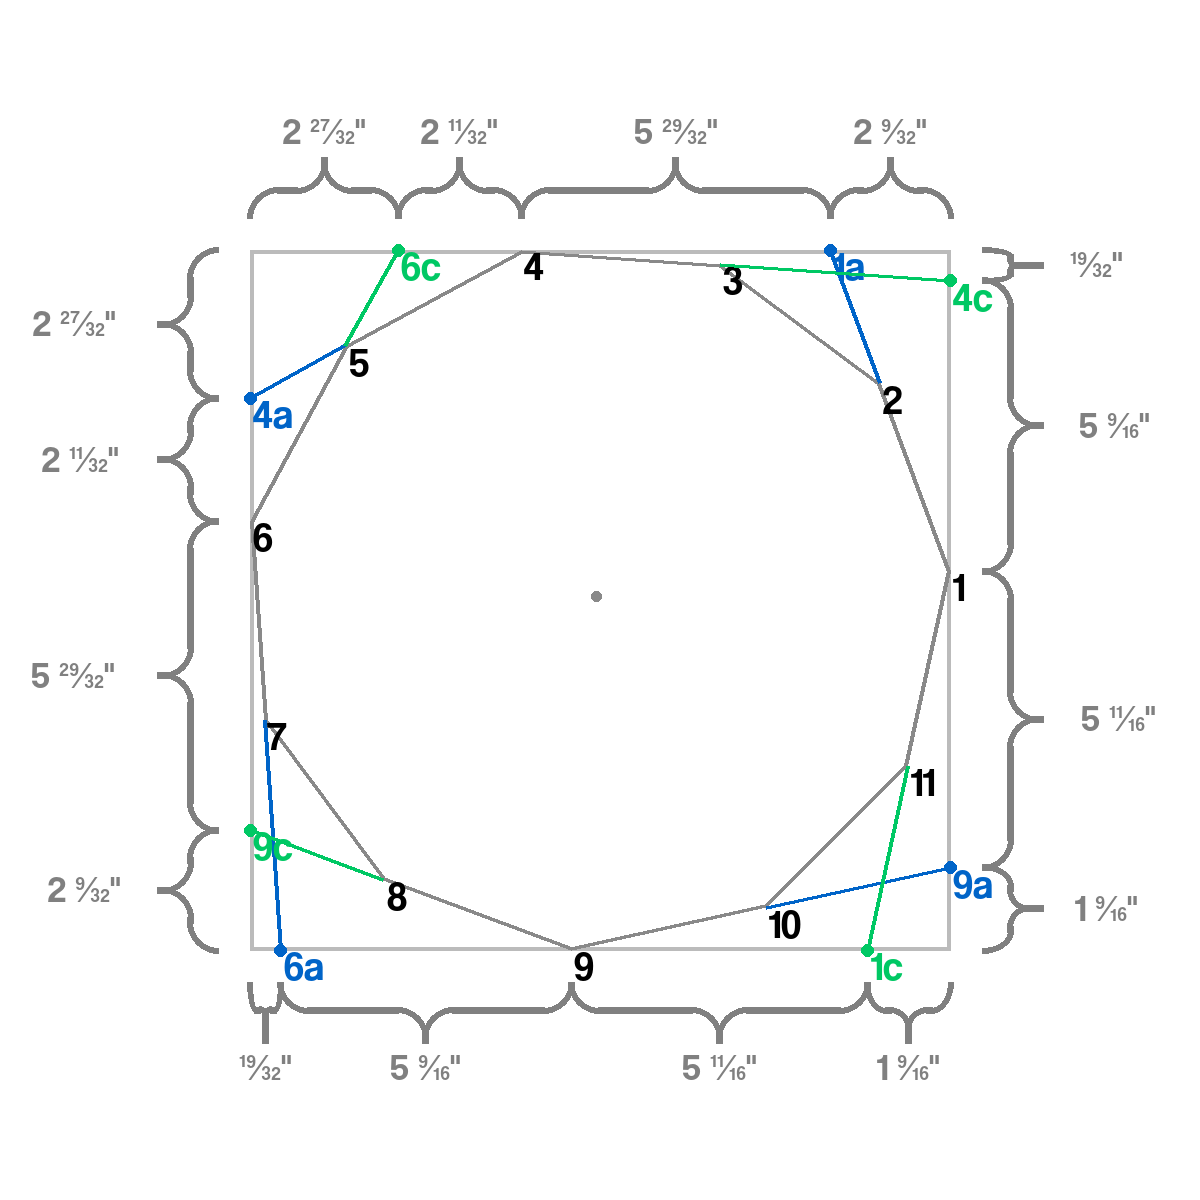
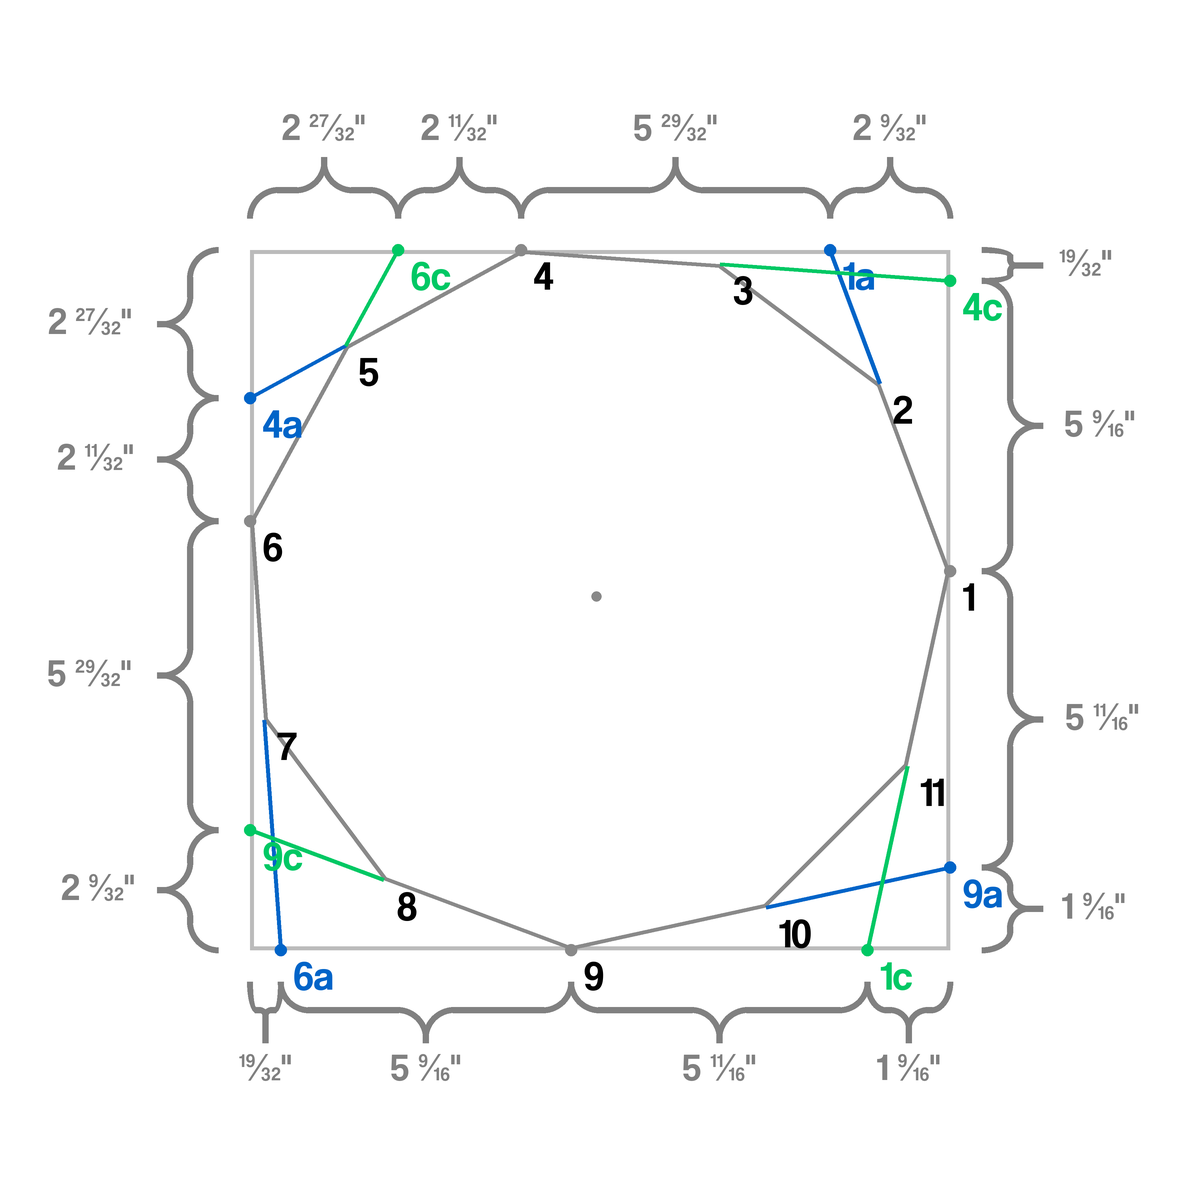
Add files via upload

diff --git a/maxpolygon/diagram/_basic_diagram.py b/maxpolygon/diagram/_basic_diagram.py
@@ -14,18 +14,19 @@ from pathlib import Path
 from PIL import Image, ImageDraw, ImageFont
 
 # Image output settings.
-IMG_SIZE = 1200  # Output image size (pixels)
-SQUARE_PADDING = 250  # Padding around the square (pixels)
+ANTIALIAS = 3  # Antialias factor.
+IMG_SIZE = 1200 * ANTIALIAS  # Output image size (pixels)
+SQUARE_PADDING = 250 * ANTIALIAS  # Padding around the square (pixels)
 
 # Vertex render settings.
-CENTER_VERT_RADIUS = 5
-HINT_VERT_RADIUS = 6
+CENTER_VERT_RADIUS = 5 * ANTIALIAS
+HINT_VERT_RADIUS = 6 * ANTIALIAS
 
 # Label settings.
 LABEL_POLY_VERTS = True
 LABEL_HINT_POINTS = True
-LABEL_OFFSET_X = 3
-LABEL_OFFSET_Y = -10
+LABEL_OFFSET_X = 13 * ANTIALIAS
+LABEL_OFFSET_Y = 0 * ANTIALIAS
 LETTERS = "ac"  # a = anticlockwise, c = clockwise
 CLOCKWISE_COLOR = (0, 200, 100)  # label color for clockwise.
 ANTICLOCKWISE_COLOR = (0, 100, 200)  # label color for anticlockwise.
@@ -54,7 +55,7 @@ def create_basic_diagram(
     # 1) Load the fonts.
     current_file = Path(__file__).resolve()
     font_path = current_file.parent.parent / "res" / "font.otf"
-    big_font = ImageFont.truetype(font_path, size=41)
+    big_font = ImageFont.truetype(font_path, size=41 * ANTIALIAS)
 
     # 2) Convert the units into pixels.
     def as_px(val, invert: bool = False):
@@ -68,12 +69,11 @@ def create_basic_diagram(
         for hints in indexed_hint_points
     ]
 
-    # 3) Create the image and draws the shape.
-    # 3a) Create the image and drawing object.
+    # 3) Create the image and drawing object.
     img = Image.new("RGB", (IMG_SIZE, IMG_SIZE), "white")
     draw = ImageDraw.Draw(img)
 
-    # 3b) Draw the square border.
+    # 4) Draw the square border.
     draw.rectangle(
         [
             SQUARE_PADDING,
@@ -82,27 +82,42 @@ def create_basic_diagram(
             IMG_SIZE - SQUARE_PADDING,
         ],
         outline=SQUARE_BORDER_COLOR,
-        width=4,
+        width=4 * ANTIALIAS,
     )
 
-    # 3c) Draw the polygon lines.
-    draw.polygon(px_coords, outline=LINE_COLOR, width=4)
+    # 5) Draw the polygon and vertices.
+    # 5a) Draw the polygon lines.
+    draw.polygon(px_coords, outline=LINE_COLOR, width=4 * ANTIALIAS)
     for i, (x, y) in enumerate(coords):
         p_x, p_y = px_coords[i]
 
-    # 3d) Draw the center.
+    # 5b) Draw the polygon vertices that are on an edge.
+    indices_on_edge = [
+        i
+        for i, (x, y) in enumerate(px_coords)
+        if not all(
+            SQUARE_PADDING + 0.001 < d < IMG_SIZE - SQUARE_PADDING - 0.001
+            for d in (x, y)
+        )
+    ]
+    for i in indices_on_edge:
+        cx, cy = px_coords[i]
+        r = HINT_VERT_RADIUS
+        draw.ellipse((cx - r, cy - r, cx + r, cy + r), fill=LINE_COLOR)
+
+    # 5c) Draw the center.
     cx, cy = px_center
     r = CENTER_VERT_RADIUS
     draw.ellipse((cx - r, cy - r, cx + r, cy + r), fill=LINE_COLOR)
 
-    # 4) Draw the numbering labels for the polygon and its hint points.
-    # 4a) Label each point of the polygon.
+    # 6) Draw the numbering labels for the polygon and its hint points.
+    # 6a) Label each point of the polygon.
     if LABEL_POLY_VERTS:
         for index, (p_x, p_y) in enumerate(px_coords):
             text_pos = (p_x + LABEL_OFFSET_X, p_y + LABEL_OFFSET_Y)
             draw.text(text_pos, str(index + 1), fill="black", font=big_font)
 
-    # 4b) Draw the hint point vertices and labels.
+    # 6b) Draw the hint point vertices and labels.
     r = HINT_VERT_RADIUS
     for index, points in enumerate(px_indexed_hints):
         for point_index, (p_x, p_y) in enumerate(points):
@@ -126,7 +141,9 @@ def create_basic_diagram(
                 letter_str = f"{base_num}{LETTERS[point_index]}"
                 text_pos = (p_x + LABEL_OFFSET_X, p_y + LABEL_OFFSET_Y)
                 draw.text(text_pos, letter_str, fill=fill_color, font=big_font)
-                draw.line([main_point, (p_x, p_y)], fill=fill_color, width=4)
+                draw.line(
+                    [main_point, (p_x, p_y)], fill=fill_color, width=4 * ANTIALIAS
+                )
 
-    # 5) Return the finished PIL image.
+    # 7) Return the finished PIL image.
     return img

diff --git a/maxpolygon/diagram/__init__.py b/maxpolygon/diagram/__init__.py
@@ -12,7 +12,7 @@ Description: This file contains the function
 from pathlib import Path
 from PIL import Image, ImageDraw, ImageFont
 from ._fraction_str import decimal_inches_to_fraction
-from ._basic_diagram import to_px, create_basic_diagram
+from ._basic_diagram import ANTIALIAS, to_px, create_basic_diagram
 from ._label_edge import label_edge
 from maxpolygon.math.sublengths import determine_sublengths
 
@@ -21,13 +21,12 @@ These are constants that influence the diagram output.
 """
 
 # Measurement settings.
-USING_INCHES = True  # if True, uses fractions.
 TO_THE_32TH = True  # only applicable for inches.
-BRACKET_THICKNESS_PX = 60
-PX_PADDING_FROM_EDGE = 30  # margin between brackets and paper (in px).
+BRACKET_THICKNESS_PX = 60 * ANTIALIAS
+PX_PADDING_FROM_EDGE = 30 * ANTIALIAS  # margin between brackets and paper (in px).
 
 # Bracket settings.
-PX_OPEN = 30
+PX_OPEN = 30 * ANTIALIAS
 
 
 def draw_diagram(
@@ -36,6 +35,7 @@ def draw_diagram(
     indexed_hint_points: list,
     paper_size,
     invert_y: bool = True,
+    use_inches: bool = True,
 ):
     """
     Draws a diagram and returns the PIL image object.
@@ -49,14 +49,14 @@ def draw_diagram(
                                   of the point <coords[i]>.
     - paper_size (number): the side length of the square the polygon is inside.
     - invert_y (bool): if True, the diagram is drawn with the Y-coords flipped.
+    - use_inches (bool): if True, the measurements are given in fractions.
 
     Returns a PIL Image of the resulting diagram.
     """
     # 1) Load the fonts.
     current_file = Path(__file__).resolve()
     font_path = current_file.parent.parent / "res" / "font.otf"
-    # big_font = ImageFont.truetype(font_path, size=41)
-    measure_font = ImageFont.truetype(font_path, size=38)
+    measure_font = ImageFont.truetype(font_path, size=38 * ANTIALIAS)
 
     # 2) Create the image and draw shapes.
     img = create_basic_diagram(
@@ -81,13 +81,10 @@ def draw_diagram(
         Takes the given measurement (in units) and returns a strings
         that format the measurement in a clean way.
         """
-        if USING_INCHES:
+        if use_inches:
             return decimal_inches_to_fraction(units, to_32th=TO_THE_32TH) + '"'
         else:
             return f"{round(units, 1):.1f}"
-
-    def to_label_strings(units_x, units_y):
-        return (to_label_string(units_x), to_label_string(units_y))
 
     # 4a) Label the right side.
     px_right_x = to_px(paper_size, paper_size=paper_size) + PX_PADDING_FROM_EDGE
@@ -156,5 +153,9 @@ def draw_diagram(
             stem_dir="down",
             bracket_thickness_px=BRACKET_THICKNESS_PX,
         )
+
+    img = img.resize(
+        (img.width // ANTIALIAS, img.height // ANTIALIAS), resample=Image.LANCZOS
+    )
 
     return img

diff --git a/maxpolygon/diagram/_label_edge.py b/maxpolygon/diagram/_label_edge.py
@@ -10,6 +10,7 @@ Description: This file contains the function
 """
 
 from ._arc import draw_arc
+from ._basic_diagram import ANTIALIAS
 from maxpolygon.math.bracket import calc_bracket_points
 from pathlib import Path
 from PIL import ImageFont
@@ -28,7 +29,7 @@ def label_edge(
     fill="gray",
 ):
     global _measure_font
-    WIDTH = 6  # line width.
+    WIDTH = 6 * ANTIALIAS  # line width.
 
     def inc_angle(angle, add, exclude_360: bool):
         return (angle + add) % (360.0001 if exclude_360 else 360.0)
@@ -155,7 +156,7 @@ def label_edge(
     if _measure_font is None:
         current_file = Path(__file__).resolve()
         font_path = current_file.parent.parent / "res" / "font.otf"
-        _measure_font = ImageFont.truetype(font_path, size=38)
+        _measure_font = ImageFont.truetype(font_path, size=38 * ANTIALIAS)
 
     # 8) Center the text box.
     bbox = _measure_font.getbbox(label_str)
@@ -163,10 +164,11 @@ def label_edge(
     text_h = bbox[3] - bbox[1]
     text_pos = (text_pos[0] - text_w / 2, text_pos[1] - text_h)
 
+    F = 0.8
     if stem_dir == "right":
-        text_pos = (text_pos[0] + text_w, text_pos[1])
+        text_pos = (text_pos[0] + text_w * F, text_pos[1])
     elif stem_dir == "left":
-        text_pos = (text_pos[0] - text_w, text_pos[1])
+        text_pos = (text_pos[0] - text_w * F, text_pos[1])
     elif stem_dir == "up":
         text_pos = (text_pos[0], text_pos[1] - text_h)
     else:
@@ -174,29 +176,3 @@ def label_edge(
 
     # 9) Label the bracket with the measurement.
     draw.text(text_pos, label_str, fill=fill, font=_measure_font)
-
-    # draw.ellipse((g0[0] - 3, g0[1] - 3, g0[0] + 3, g0[1] + 3), fill="cyan")
-    # draw.ellipse((b0[0] - 3, b0[1] - 3, b0[0] + 3, b0[1] + 3), fill="yellow")
-    # draw.ellipse(
-    #    (branch[0] - 3, branch[1] - 3, branch[0] + 3, branch[1] + 3), fill="purple"
-    # )
-    """
-    k_point_a = (q_point_a[0], z_point[1] - abs(z_point[0] - q_point_a[0]))
-    k_point_b = (q_point_b[0], z_point[1] + abs(z_point[0] - q_point_b[0]))
-    draw_arc(
-        k_point_a, 
-        z_point, 
-        start=90, 
-        end=180, 
-        expand_right=increasing_x, 
-        expand_down=False,
-    )
-    draw_arc(
-        k_point_b, 
-        z_point, 
-        start=180,
-        end=270,
-        fill="blue",
-        expand_right=increasing_x,
-        expand_down=True,
-    )"""

diff --git a/maxpolygon/math/poly.py b/maxpolygon/math/poly.py
@@ -12,9 +12,13 @@ Description: This file contains functionality
 import math
 import numpy as np
 
+MAX_NUM_SIDES = 33
+
 # Create a cache of normalized polygon points
 # to optimize finding the best angle.
-_angles_cache = {n: np.linspace(0, 2 * np.pi, n, endpoint=False) for n in range(3, 33)}
+_angles_cache = {
+    n: np.linspace(0, 2 * np.pi, n, endpoint=False) for n in range(3, MAX_NUM_SIDES + 1)
+}
 
 
 def generate_polygon_coords(n: int, rotation=0.0):

diff --git a/main.py b/main.py
@@ -3,6 +3,10 @@ import os
 
 """
 MaxPolygon
+---
+This main script generates a diagram 
+for every 3-sided to 13-sided perfect polygon
+that will be inscribed as large as possible inside a square.
 """
 
 import maxpolygon
